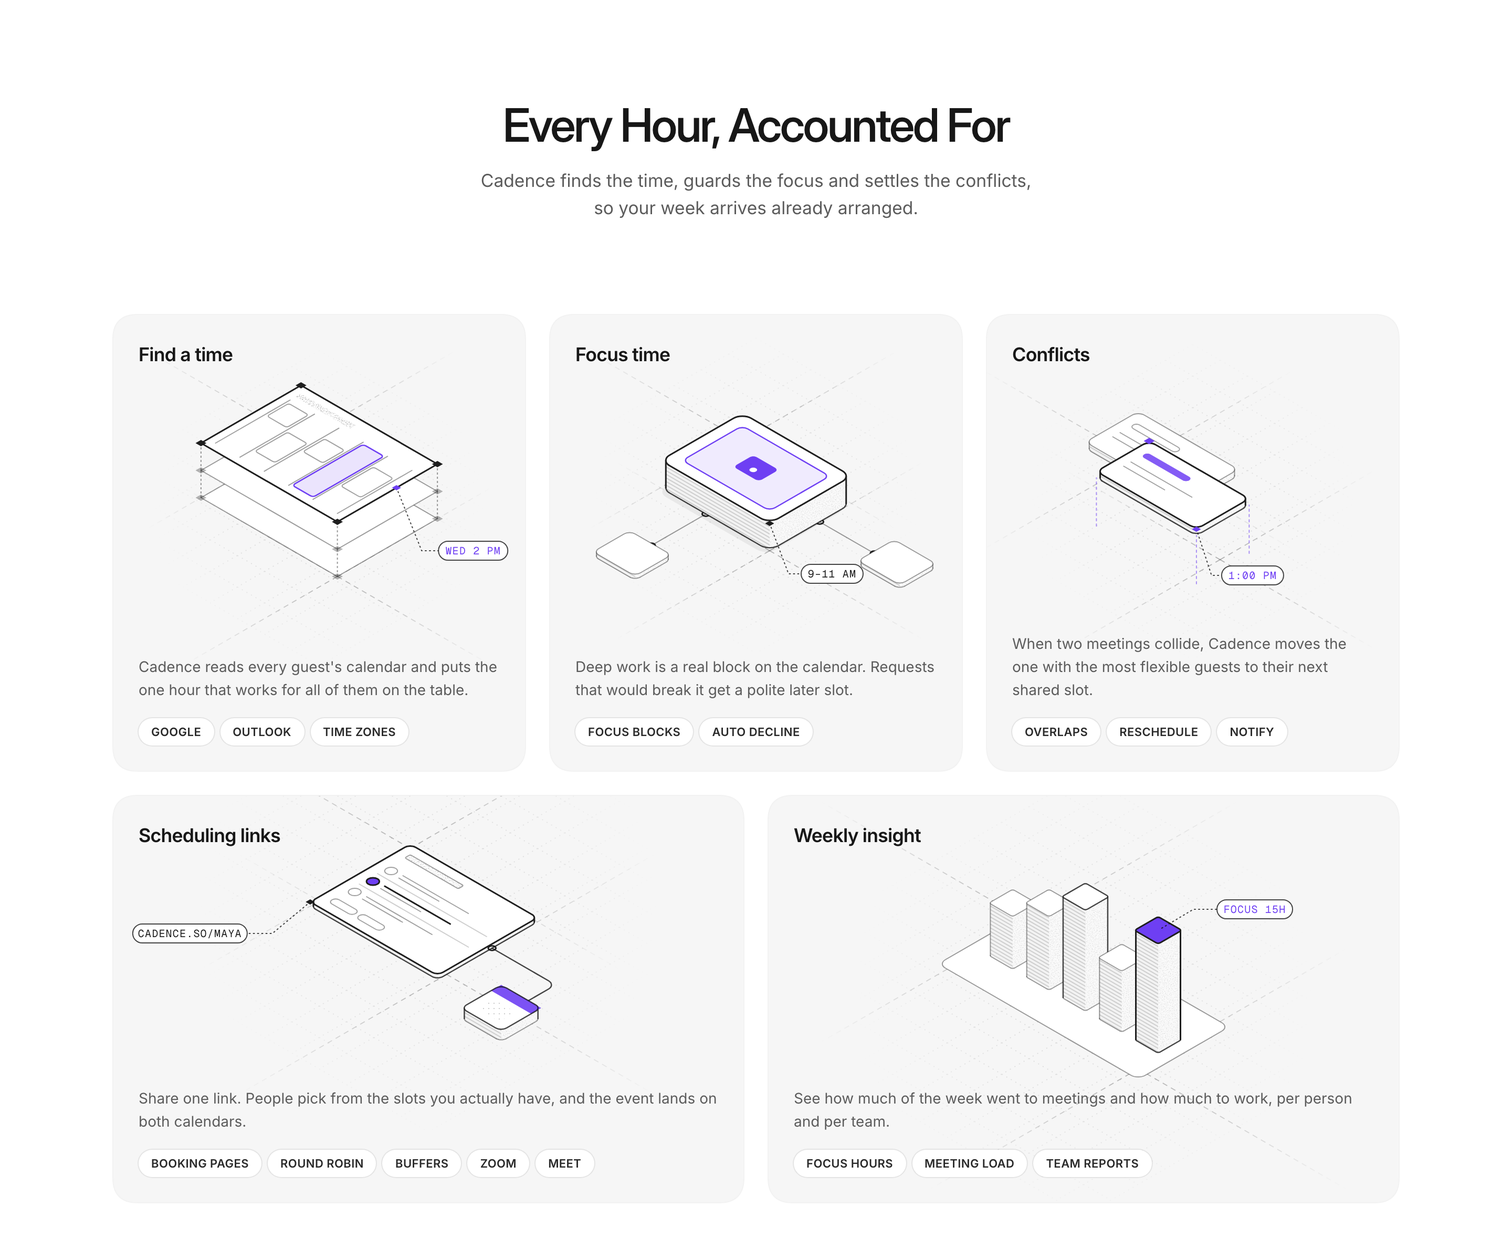
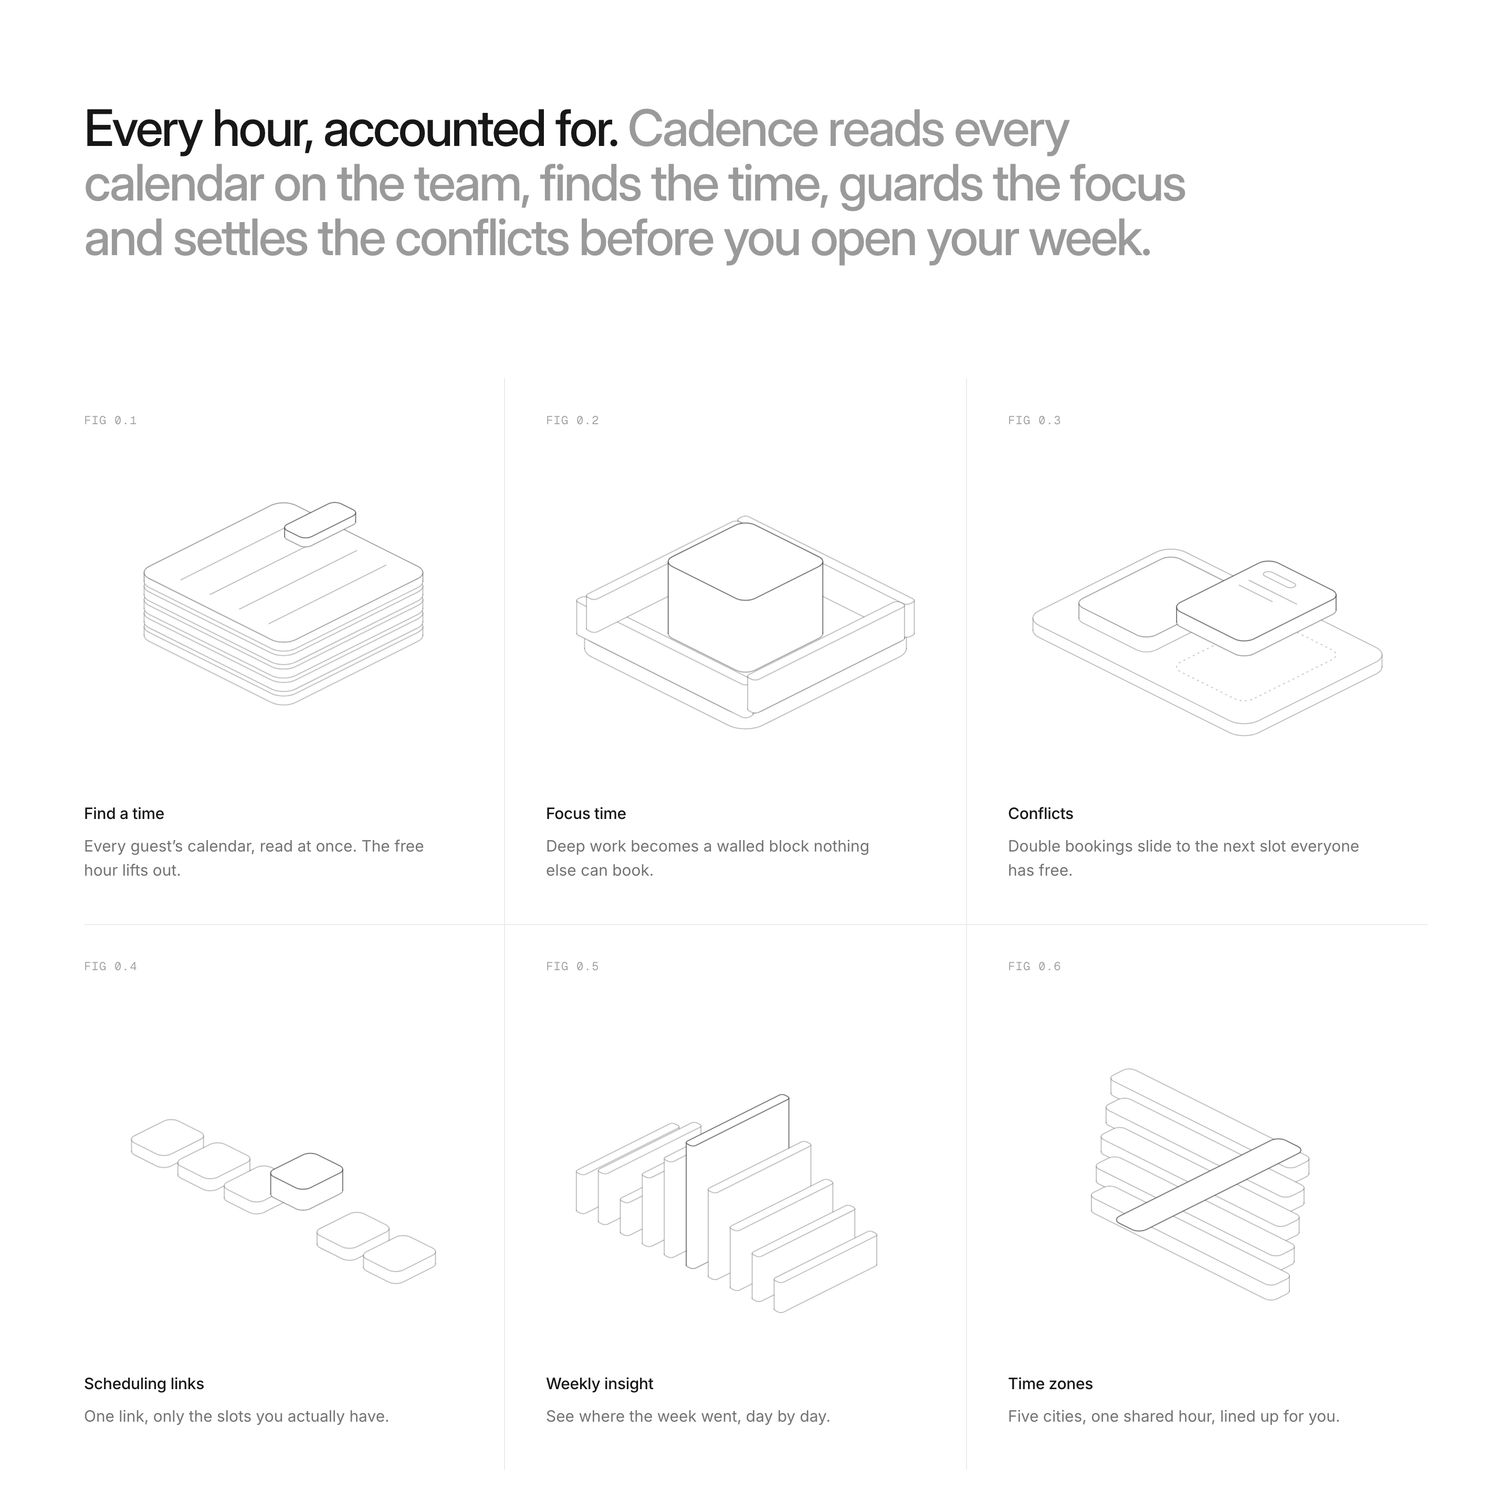
Cadence feature section v5 in Linear's FIG-triptych grammar; iso kit gains a hairline dimetric mode; founder rule: Linear is the bar for line art

diff --git a/work/replicas/app/src/Bento.tsx b/work/replicas/app/src/Bento.tsx
@@ -1,181 +1,128 @@
-// Cadence bento v4: Kargul's services-bento grammar drawn with the engine's iso kit (system/iso, rules ISO-01..18 in
-// knowledge/web/isometric-line-art.md): true 30deg isometric, every point projected in code so strokes stay exact,
-// one stroke ladder (focal / primary / secondary / detail / guide), hatched shade faces, grain lit faces, diamond
-// nodes, dotted leaders with mono-caps pills, guides fading to the cell edge. One violet fill per cell, on the answer.
+// Cadence feature section v5, replicate-first from Linear's figure triptych
+// (knowledge/benchmarks/bento/linear-fig-triptych.png): a two-tone statement headline, then columns split by 1px
+// hairlines, each with a mono FIG label, ONE quiet object drawn in 2:1 dimetric with a single hairline weight and white
+// faces (no fills, hatch, nodes, guides or colour), and a small title + muted line at the bottom. The idea is carried by
+// the geometry alone: the raised piece is the answer. Light mode. Sample content.
 import type { ReactNode } from 'react'
-import { IsoScene, IsoGrid, GuideLines, Plate, Stack, Tower, Node, Callout, Connector, Card, Texture, useIso, useStroke, topPlane, planeRoundRect, planeCircle, polyPath, type Plane } from './iso'
+import { IsoScene, Plate, useIso, useStroke, topPlane, planeRoundRect, polyPath } from './iso'
 
-const INK = '#171717', V = '#6e3ff3'
+const INK = '#171717'
+const Scene = ({ children, y = 150 }: { children: ReactNode; y?: number }) => (
+  <IsoScene width={400} height={360} mode="hairline" kind="dimetric" scale={1.3} origin={{ x: 200, y: y * 1.25 }}>{children}</IsoScene>
+)
 
-/** event rows on a calendar face: grain title bar + n hairline rows, one row optionally violet */
-function CalFace({ pl, w, d, cols = 5, accentCol }: { pl: Plane; w: number; d: number; cols?: number; accentCol?: number }) {
-  const { P, T } = useIso()
-  const s = useStroke('detail')
-  const cw = (w - 16) / cols
-  const out: ReactNode[] = []
-  out.push(<Texture key="bar" d={planeRoundRect(P, pl, 8, 8, w * 0.4, 6, 0)} kind="grain" opacity={0.6} />)
-  for (let c = 0; c <= cols; c++) out.push(<path key={'v' + c} d={polyPath(P, [[pl.o[0] + 8 + c * cw, pl.o[1] + 20, pl.o[2]], [pl.o[0] + 8 + c * cw, pl.o[1] + d - 8, pl.o[2]]])} {...s} />)
-  // busy blocks: deterministic pattern
-  const busy = [[0, 0, 2], [1, 2, 3], [2, 1, 2], [3, 0, 1], [3, 3, 2], [4, 1, 3]]
-  busy.forEach(([c, r, len], i) => {
-    if (c === accentCol) return
-    out.push(<path key={'b' + i} d={planeRoundRect(P, pl, 8 + c * cw + 2.5, 24 + r * 14, cw - 5, len * 12, 2.5)} {...s} fill={T.top} />)
-  })
-  if (accentCol !== undefined) out.push(<path key="acc" d={planeRoundRect(P, pl, 8 + accentCol * cw + 2, 22, cw - 4, d - 32, 3)} fill={V} fillOpacity={0.14} stroke={V} strokeWidth={1.25} />)
-  return <g>{out}</g>
-}
-
-function ArtFind() {
-  return (
-    <IsoScene width={392} height={262} mode="light" accent={V} origin={{ x: 196, y: 140 }} edgeFade={0}>
-      <IsoGrid cells={10} step={30} style="dotted" />
-      <GuideLines through={[[-75, -55, 0], [75, 55, 0]]} reach={170} />
-      <Stack at={[-75, -55, 0]} w={150} d={110} layers={3} gap={26} thickness={0} connectors
-        content={(i) => (i === 2 ? <CalFace pl={topPlane(-75, -55, 52)} w={150} d={110} accentCol={3} /> : null)} />
-      <Callout at={[75, -10, 52]} dx={40} dy={60} label="WED 2 PM" tone="accent" />
-    </IsoScene>
-  )
-}
-
-function Lock({ at }: { at: [number, number, number] }) {
-  const { P } = useIso()
-  const [x, y, z] = at
-  return (
-    <g>
-      <path d={planeRoundRect(P, topPlane(x - 14, y - 11, z), 0, 0, 28, 22, 4)} fill={V} />
-      <path d={planeCircle(P, topPlane(x, y + 3, z), 0, 0, 3)} fill="#fff" />
-    </g>
-  )
-}
-function ArtFocus() {
-  return (
-    <IsoScene width={392} height={262} mode="light" accent={V} origin={{ x: 196, y: 128 }} edgeFade={0}>
-      <IsoGrid cells={10} step={30} style="dotted" />
-      <GuideLines through={[[-60, -45, 0], [60, 45, 0]]} reach={170} />
-      <Connector points={[[60, -10, 0], [120, -10, 0]]} level="secondary" endNodes />
-      <Connector points={[[-10, 45, 0], [-10, 105, 0]]} level="secondary" endNodes />
-      <Plate at={[122, -30, 0]} w={46} d={40} h={4} r={6} level="secondary" />
-      <Plate at={[-32, 107, 0]} w={46} d={40} h={4} r={6} level="secondary" />
-      <Plate at={[-60, -45, 0]} w={120} d={90} h={26} r={10} level="focal" shadow={6}>
-        <FocusFace />
-      </Plate>
-      <Callout at={[60, 45, 26]} dx={30} dy={48} label="9–11 AM" />
-    </IsoScene>
-  )
-}
-function FocusFace() {
-  const { P } = useIso()
-  const pl = topPlane(-60, -45, 26)
-  return (
-    <g>
-      <path d={planeRoundRect(P, pl, 12, 12, 96, 66, 6)} fill={V} fillOpacity={0.1} stroke={V} strokeWidth={1.25} />
-      <Lock at={[0, 0, 26]} />
-    </g>
-  )
-}
-
-function ArtConflict() {
-  return (
-    <IsoScene width={392} height={262} mode="light" accent={V} origin={{ x: 196, y: 134 }} edgeFade={0}>
-      <IsoGrid cells={10} step={30} style="dotted" />
-      <GuideLines through={[[-70, -10, 0], [70, 40, 0]]} reach={170} />
-      <Plate at={[-110, -50, 0]} w={110} d={58} h={6} r={7} level="secondary">
-        <SlotLines x={-110} y={-50} z={6} w={110} />
-      </Plate>
-      {/* the moved one, lifted, dashed drops to its old footprint */}
-      <path d="" />
-      <Drops />
-      <Plate at={[-30, 18, 46]} w={110} d={58} h={6} r={7} level="focal" shadow={0}>
-        <SlotLines x={-30} y={18} z={52} w={110} accent />
-      </Plate>
-      <Node at={[-30, 18, 52]} tone="accent" />
-      <Callout at={[80, 76, 52]} dx={24} dy={44} label="1:00 PM" tone="accent" />
-    </IsoScene>
-  )
-}
-function Drops() {
-  const { P } = useIso()
-  const s = useStroke('secondary')
-  const c: [number, number][] = [[-30, 18], [80, 18], [80, 76], [-30, 76]]
-  return <path d={c.map(([x, y]) => polyPath(P, [[x, y, 0], [x, y, 46]])).join(' ')} {...s} stroke={V} strokeOpacity={0.55} strokeDasharray="2 3" />
-}
-function SlotLines({ x, y, z, w, accent }: { x: number; y: number; z: number; w: number; accent?: boolean }) {
-  const { P } = useIso()
-  const s = useStroke('detail')
+function Lines({ x, y, z, w, n = 2 }: { x: number; y: number; z: number; w: number; n?: number }) {
+  const { P } = useIso(); const s = useStroke('detail')
   const pl = topPlane(x, y, z)
+  return <g><path d={planeRoundRect(P, pl, 10, 10, w * 0.4, 6, 3)} {...s} />{Array.from({ length: n }, (_, i) => <path key={i} d={polyPath(P, [[x + 10, y + 26 + i * 8, z], [x + 10 + w * (i ? 0.45 : 0.65), y + 26 + i * 8, z]])} {...s} />)}</g>
+}
+
+function FigFind() {
+  const W = 120, D = 120
   return (
-    <g>
-      <path d={planeRoundRect(P, pl, 10, 12, w * 0.45, 7, 3.5)} fill={accent ? V : undefined} fillOpacity={accent ? 0.85 : undefined} {...(accent ? {} : s)} />
-      <path d={polyPath(P, [[x + 10, y + 30, z], [x + w * 0.7, y + 30, z]])} {...s} />
-      <path d={polyPath(P, [[x + 10, y + 38, z], [x + w * 0.5, y + 38, z]])} {...s} />
-    </g>
+    <Scene y={140}>
+      {[0, 1, 2, 3, 4].map((i) => <Plate key={i} at={[-W / 2, -D / 2, i * 9]} w={W} d={D} h={6} r={10} level={i === 4 ? 'primary' : 'secondary'} sides="flat" />)}
+      <WeekGrid z={42} />
+      <Plate at={[-6, -48, 62]} w={20} d={44} h={6} r={5} level="focal" sides="flat" />
+    </Scene>
+  )
+}
+function WeekGrid({ z }: { z: number }) {
+  const { P } = useIso(); const s = useStroke('detail')
+  return <g>{[1, 2, 3, 4].map((c) => <path key={c} d={polyPath(P, [[-60 + c * 24, -48, z], [-60 + c * 24, 48, z]])} {...s} />)}</g>
+}
+
+function FigFocus() {
+  return (
+    <Scene y={150}>
+      <Plate at={[-70, -70, 0]} w={140} d={140} h={10} r={14} level="secondary" sides="flat" />
+      {[[-70, -70, 140, 8], [-70, 62, 140, 8], [-70, -62, 8, 124], [62, -62, 8, 124]].map(([x, y, w, d], i) => <Plate key={i} at={[x, y, 10]} w={w} d={d} h={22} r={3} level="secondary" sides="flat" />)}
+      <Plate at={[-34, -34, 10]} w={68} d={68} h={48} r={8} level="focal" sides="flat" />
+    </Scene>
   )
 }
 
-function ArtLink() {
+function FigConflict() {
   return (
-    <IsoScene width={600} height={240} mode="light" accent={V} origin={{ x: 300, y: 70 }} edgeFade={0}>
-      <IsoGrid cells={14} step={30} style="dotted" />
-      <GuideLines through={[[-70, -50, 0], [70, 50, 0]]} reach={230} />
-      <Card at={[-70, -50, 0]} w={140} d={110} rows={3} highlight={1} chips={2} />
-      <Connector points={[[70, 0, 0], [140, 0, 0], [140, 40, 0]]} radius={8} level="primary" endNodes />
-      <Plate at={[120, 40, 0]} w={44} d={44} h={10} r={6} level="primary">
-        <CalTile />
-      </Plate>
-      <Callout at={[-70, 60, 4]} dx={-60} dy={30} label="CADENCE.SO/MAYA" />
-    </IsoScene>
+    <Scene y={150}>
+      <Plate at={[-90, -60, 0]} w={180} d={120} h={8} r={12} level="secondary" sides="flat" />
+      <Plate at={[-70, -40, 8]} w={60} d={80} h={10} r={8} level="primary" sides="flat" />
+      <Ghost />
+      <Plate at={[10, -40, 38]} w={60} d={80} h={10} r={8} level="focal" sides="flat"><Lines x={10} y={-40} z={48} w={60} n={2} /></Plate>
+    </Scene>
   )
 }
-function CalTile() {
+function Ghost() {
   const { P } = useIso()
-  const pl = topPlane(120, 40, 10)
-  return <g><path d={planeRoundRect(P, pl, 0, 0, 44, 11, 0)} fill={V} fillOpacity={0.9} /><Texture d={planeRoundRect(P, pl, 10, 18, 24, 18, 3)} kind="dots" /></g>
+  return <path d={planeRoundRect(P, topPlane(10, -40, 8), 0, 0, 60, 80, 8)} fill="none" stroke="rgba(17,17,17,0.22)" strokeDasharray="2 3" />
 }
 
-function ArtInsight() {
-  const days: [number, number][] = [[50, 0], [70, 0], [96, 0], [58, 0], [104, 1]]
+function FigLinks() {
   return (
-    <IsoScene width={600} height={240} mode="light" accent={V} origin={{ x: 300, y: 150 }} edgeFade={0}>
-      <IsoGrid cells={14} step={30} style="dotted" />
-      <GuideLines through={[[-100, -40, 0], [100, 40, 0]]} reach={230} />
-      <Plate at={[-110, -50, 0]} w={220} d={100} h={0} r={8} level="secondary" />
-      {days.map(([h, on], i) => <Tower key={i} at={[-90 + i * 40, -12, 0]} size={26} h={h} level={on ? 'focal' : i === 2 ? 'primary' : 'secondary'} topFill={on ? V : undefined} />)}
-      <Callout at={[83, 1, 104]} dx={56} dy={-20} label="FOCUS 15H" tone="accent" />
-    </IsoScene>
+    <Scene y={160}>
+      {[0, 1, 2, 3, 4, 5].map((i) => {
+        const on = i === 3
+        return <Plate key={i} at={[-110 + i * 38, -18, on ? 18 : 0]} w={30} d={36} h={on ? 14 : 8} r={6} level={on ? 'focal' : 'secondary'} sides="flat" />
+      })}
+    </Scene>
   )
 }
 
-function Cell({ w, h, title, body, chips, art, artTop = 44 }: { w: number; h: number; title: string; body: string; chips: string[]; art: ReactNode; artTop?: number }) {
+function FigInsight() {
+  const H = [26, 34, 22, 46, 64, 82, 58, 40, 30, 20]
   return (
-    <div className="relative overflow-hidden rounded-[24px]" style={{ width: w, height: h, background: '#f6f6f6', boxShadow: '0 0 0 1px rgb(0 0 0 / 0.05)' }}>
-      <div className="absolute left-6 top-6 text-[18px] font-[600] tracking-[-0.02em]">{title}</div>
-      <div className="absolute inset-x-0 flex justify-center" style={{ top: artTop }}>{art}</div>
-      <div className="absolute inset-x-6 bottom-6">
-        <p className="text-[14px] leading-[22px]" style={{ color: '#5c5c5c' }}>{body}</p>
-        <div className="mt-4 flex flex-wrap gap-1.5">{chips.map((c) => <span key={c} className="flex h-[26px] items-center rounded-full bg-white px-3 text-[11px] font-[600] tracking-[0.02em]" style={{ boxShadow: '0 0 0 1px rgb(0 0 0 / 0.07)', color: '#2a2a2a' }}>{c}</span>)}</div>
-      </div>
-    </div>
+    <Scene y={190}>
+      {H.map((h, i) => <Plate key={i} at={[-100 + i * 18, -40, 0]} w={7} d={80} h={h} r={2.5} level={i === 5 ? 'focal' : 'secondary'} sides="flat" />)}
+    </Scene>
   )
 }
+
+function FigZones() {
+  return (
+    <Scene y={150}>
+      {[0, 1, 2, 3, 4].map((i) => <Plate key={i} at={[-80 + (i - 2) * 22, -60 + i * 26, 0]} w={150} d={18} h={10} r={5} level="secondary" sides="flat" />)}
+      <Plate at={[-6, -64, 10]} w={22} d={136} h={0} r={6} level="focal" sides="flat" />
+    </Scene>
+  )
+}
+
+const FIGS: [string, string, string, () => React.JSX.Element][] = [
+  ['0.1', 'Find a time', 'Every guest’s calendar, read at once. The free hour lifts out.', FigFind],
+  ['0.2', 'Focus time', 'Deep work becomes a walled block nothing else can book.', FigFocus],
+  ['0.3', 'Conflicts', 'Double bookings slide to the next slot everyone has free.', FigConflict],
+  ['0.4', 'Scheduling links', 'One link, only the slots you actually have.', FigLinks],
+  ['0.5', 'Weekly insight', 'See where the week went, day by day.', FigInsight],
+  ['0.6', 'Time zones', 'Five cities, one shared hour, lined up for you.', FigZones],
+]
 
 export default function Bento() {
+  const col = (i: number) => {
+    const [n, t, b, F] = FIGS[i]
+    return (
+      <div key={n} className="relative w-[400px] pt-8" style={{ height: 520 }}>
+        <div className="font-mono text-[11px] tracking-[0.06em]" style={{ color: '#a3a3a3' }}>FIG {n}</div>
+        <div className="absolute inset-x-0 top-[70px] -ml-5 flex justify-center"><F /></div>
+        <div className="absolute bottom-10 left-0 w-[340px]">
+          <div className="text-[15px] font-[500] tracking-[-0.01em]">{t}</div>
+          <div className="mt-2 text-[15px] leading-[23px]" style={{ color: '#737373' }}>{b}</div>
+        </div>
+      </div>
+    )
+  }
   return (
-    <div className="relative" style={{ width: 1440, height: 1180, background: '#ffffff', fontFamily: '"Inter Variable", system-ui, sans-serif', fontFeatureSettings: '"cv11", "ss01"', color: INK }}>
-      <div className="absolute inset-x-0 top-[96px] text-center">
-        <h2 className="text-[44px] font-[550] leading-[1.06] tracking-[-0.04em]">Every Hour, Accounted For</h2>
-        <p className="mx-auto mt-4 text-[17px] leading-[26px]" style={{ color: '#5c5c5c' }}>Cadence finds the time, guards the focus and settles the conflicts,<br />so your week arrives already arranged.</p>
-      </div>
-      <div className="absolute left-[108px] top-[300px] flex flex-col gap-6">
-        <div className="flex gap-6">
-          <Cell w={392} h={434} title="Find a time" art={<ArtFind />} body="Cadence reads every guest's calendar and puts the one hour that works for all of them on the table." chips={['GOOGLE', 'OUTLOOK', 'TIME ZONES']} />
-          <Cell w={392} h={434} title="Focus time" art={<ArtFocus />} body="Deep work is a real block on the calendar. Requests that would break it get a polite later slot." chips={['FOCUS BLOCKS', 'AUTO DECLINE']} />
-          <Cell w={392} h={434} title="Conflicts" art={<ArtConflict />} body="When two meetings collide, Cadence moves the one with the most flexible guests to their next shared slot." chips={['OVERLAPS', 'RESCHEDULE', 'NOTIFY']} />
+    <div className="relative" style={{ width: 1440, height: 1420, background: '#ffffff', fontFamily: '"Inter Variable", system-ui, sans-serif', fontFeatureSettings: '"cv11", "ss01"', color: INK }}>
+      <h2 className="absolute left-[80px] top-[96px] w-[1180px] text-[48px] font-[500] leading-[1.08] tracking-[-0.035em]">
+        Every hour, accounted for. <span style={{ color: '#9a9a9a' }}>Cadence reads every calendar on the team, finds the time, guards the focus and settles the conflicts before you open your week.</span>
+      </h2>
+      {[0, 1].map((r) => (
+        <div key={r} className="absolute left-[80px] flex" style={{ top: 360 + r * 520, boxShadow: r ? 'inset 0 1px 0 #ececec' : undefined }}>
+          {[0, 1, 2].map((c) => (
+            <div key={c} className="flex" style={{ paddingLeft: c ? 40 : 0, boxShadow: c ? 'inset 1px 0 0 #ececec' : undefined }}>
+              {col(r * 3 + c)}
+            </div>
+          ))}
         </div>
-        <div className="flex gap-6">
-          <Cell w={600} h={387} title="Scheduling links" art={<ArtLink />} artTop={40} body="Share one link. People pick from the slots you actually have, and the event lands on both calendars." chips={['BOOKING PAGES', 'ROUND ROBIN', 'BUFFERS', 'ZOOM', 'MEET']} />
-          <Cell w={600} h={387} title="Weekly insight" art={<ArtInsight />} artTop={40} body="See how much of the week went to meetings and how much to work, per person and per team." chips={['FOCUS HOURS', 'MEETING LOAD', 'TEAM REPORTS']} />
-        </div>
-      </div>
+      ))}
     </div>
   )
 }

diff --git a/system/iso/iso.tsx b/system/iso/iso.tsx
@@ -179,7 +179,7 @@ export function routePath(P: Projector, pts: V3[], radius = 6): string {
 
 /* ------------------------------------------------------------------------------------------------ theme */
 
-export type IsoMode = "dark" | "light";
+export type IsoMode = "dark" | "light" | "hairline";
 
 /** Measured stroke/fill ladder (see isometric-line-art.md section 3). Dark ranks by alpha at one weight; light by weight + grey. */
 export interface IsoTheme {
@@ -207,6 +207,18 @@ export interface IsoTheme {
 }
 
 export function isoTheme(mode: IsoMode, accent?: string): IsoTheme {
+  if (mode === "hairline") {
+    // Linear grammar (knowledge/benchmarks/bento/linear-fig-triptych.png): one 1px hairline weight for every edge,
+    // white faces, no hatch or grain, no nodes; depth comes only from stacking, offsets and rounded slab sides.
+    const h = { c: "rgba(17,17,17,0.36)", w: 1 };
+    return {
+      mode, bg: "#ffffff", top: "#ffffff", topFocal: "#ffffff", left: "#ffffff", right: "#ffffff",
+      shadow: "rgba(17,17,17,0)", hatch: "rgba(17,17,17,0)", grain: 0, ink: "#111111",
+      focal: { c: "rgba(17,17,17,0.55)", w: 1 }, primary: h, secondary: { c: "rgba(17,17,17,0.26)", w: 1 }, detail: { c: "rgba(17,17,17,0.26)", w: 1 },
+      guide: { c: "rgba(17,17,17,0.18)", w: 1, dash: "2 3" }, grid: { c: "rgba(17,17,17,0.1)", w: 1, dash: "1 4" },
+      nodeOn: "rgba(17,17,17,0.5)", nodeOff: "rgba(17,17,17,0.2)", accent: accent ?? "#111111", label: "#737373", labelBg: "#ffffff",
+    };
+  }
   if (mode === "dark") {
     return {
       mode,

diff --git a/work/replicas/app/src/iso.tsx b/work/replicas/app/src/iso.tsx
@@ -179,7 +179,7 @@ export function routePath(P: Projector, pts: V3[], radius = 6): string {
 
 /* ------------------------------------------------------------------------------------------------ theme */
 
-export type IsoMode = "dark" | "light";
+export type IsoMode = "dark" | "light" | "hairline";
 
 /** Measured stroke/fill ladder (see isometric-line-art.md section 3). Dark ranks by alpha at one weight; light by weight + grey. */
 export interface IsoTheme {
@@ -207,6 +207,18 @@ export interface IsoTheme {
 }
 
 export function isoTheme(mode: IsoMode, accent?: string): IsoTheme {
+  if (mode === "hairline") {
+    // Linear grammar (knowledge/benchmarks/bento/linear-fig-triptych.png): one 1px hairline weight for every edge,
+    // white faces, no hatch or grain, no nodes; depth comes only from stacking, offsets and rounded slab sides.
+    const h = { c: "rgba(17,17,17,0.36)", w: 1 };
+    return {
+      mode, bg: "#ffffff", top: "#ffffff", topFocal: "#ffffff", left: "#ffffff", right: "#ffffff",
+      shadow: "rgba(17,17,17,0)", hatch: "rgba(17,17,17,0)", grain: 0, ink: "#111111",
+      focal: { c: "rgba(17,17,17,0.55)", w: 1 }, primary: h, secondary: { c: "rgba(17,17,17,0.26)", w: 1 }, detail: { c: "rgba(17,17,17,0.26)", w: 1 },
+      guide: { c: "rgba(17,17,17,0.18)", w: 1, dash: "2 3" }, grid: { c: "rgba(17,17,17,0.1)", w: 1, dash: "1 4" },
+      nodeOn: "rgba(17,17,17,0.5)", nodeOff: "rgba(17,17,17,0.2)", accent: accent ?? "#111111", label: "#737373", labelBg: "#ffffff",
+    };
+  }
   if (mode === "dark") {
     return {
       mode,

diff --git a/knowledge/founder/founder-taste.md b/knowledge/founder/founder-taste.md
@@ -518,3 +518,6 @@ Every rule here is a direct founder verdict on real output. It outranks books, w
 - **RULE** [founder] The bento style the founder loves: Kargul's services-bento grammar, one monochrome isometric line drawing per cell of the product's own object (iso plates, stacked layers, extruded towers) with shared hatching, dot fills, diamond nodes, dashed guide lines and a faint perspective grid; title top-left, short body, caps chip row; one accent only on the answer. It must be drawn with precision and detail (uniform strokes, true projection, crisp joins), never as loose shapes. Learn from `knowledge/web/isometric-line-art.md` and build with `system/iso/`.
   **Why** Founder on Cadence bento v3: "nowww we talking, yess this style is amazing, yet ... it needs incredible precision and you could do wayyy better and more in detail ... marcel is goated at this too". Earlier v1/v2 (white cards, mixed lit objects) were "noobish".
   **Applies to** bento and feature sections. **Check** every cell uses the same iso system and stroke ladder; one accent per cell. **Source** founder, Cadence bento v3, 2026-10-21
+- **RULE** [founder] For feature/bento line art, Linear is the bar ("check linear, they do it good enough"): a two-tone statement headline, columns split by 1px hairlines with mono FIG labels, ONE quiet object per column in 2:1 dimetric, every edge the same 1px hairline (~36% ink on white), white faces, no hatch, grain, nodes, guides, callouts or colour; the idea is told by geometry alone (the raised or lifted piece is the answer); small title + muted line at the bottom. Kit: `system/iso` with `mode="hairline" kind="dimetric"`.
+  **Why** Founder after the Kargul-grammar v4 with callouts, hatch and violet: "check linear cmon they do it good enough, not u".
+  **Applies to** feature sections and bentos with iso art. **Check** one stroke weight in the art; zero fills other than white; no accent colour. **Source** founder, Cadence, 2026-10-21
